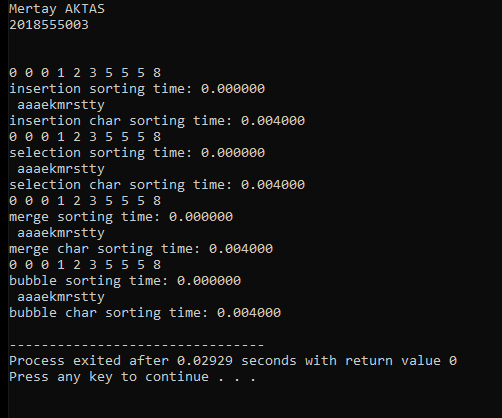
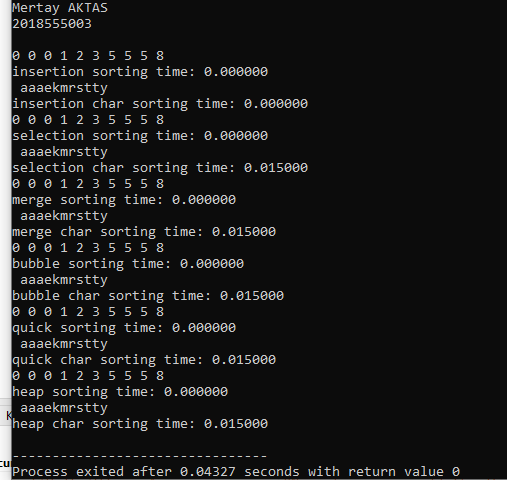
2018555003 Mertay Aktaş

Changed region(s): [[0.0, 0.0, 1.0, 1.0]]

diff --git a/Sorting/2018555003 Mertay AKTAŞ/Sorting.c.c b/Sorting/2018555003 Mertay AKTAŞ/Sorting.c.c
@@ -209,6 +209,137 @@ void bubble_sort_char(char array[], int size)
            if (array[j] > array[j+1])
                swap_char(&array[j], &array[j+1]);
 }
+// Quick Sort
+void quickSort(int *array,int first,int last){
+    int i; 
+    int j; 
+    int pivot; 
+    char temp; 
+    pivot=first; 
+   
+    
+    if(last>first){
+        pivot=first;
+        i=first;
+        j=last;
+        for (;i<j;){
+            for (;array[i]<=array[pivot] && i<last && j>i;i++){ 
+            
+            }
+            for (;array[j]>=array[pivot] && j>=first && j>=i;j--){
+                
+            }
+            if (j>i){ 
+                temp=array[i];
+                array[i]=array[j];
+                array[j]=temp;
+            }
+        }
+       
+        temp=array[j];
+        array[j]=array[pivot];
+        array[pivot]=temp;
+        quickSort(array,first,j-1);
+        quickSort(array,j+1,last);
+    }
+}
+void quickSortChar(char *array,char first,char last){
+    int i; 
+    int j; 
+    char pivot; 
+    int temp; 
+    pivot=first; 
+   
+    
+    if(last>first){
+        pivot=first;
+        i=first;
+        j=last;
+        for (; i<j; ){
+            for (;array[i]<=array[pivot] && i<last && j>i;i++) { 
+               
+            }
+            for (;array[j]>=array[pivot] && j>=first && j>=i;j--){
+            
+            }
+            if (j>i){ 
+                temp=array[i];
+                array[i]=array[j];
+                array[j]=temp;
+            }
+        }
+       
+        temp=array[j];
+        array[j]=array[pivot];
+        array[pivot]=temp;
+        quickSort(array,first,j-1);
+        quickSort(array,j+1,last);
+    }
+}
+
+//Heap Soer
+void heapSort (int *x, int size)
+{
+   int  left, right, temp;
+ 
+   if (size <= 1)
+      return;
+   left = size / 2;
+   right = size - 1;
+ 
+   while (--left >= 0)
+      heapify(x, left, right);
+ 
+   for (;;) {
+      temp = x[0];
+      x[0] = x[right];
+      x[right] = temp;
+      if (--right <= 0)
+         break;
+      heapify(x, 0, right);
+   }
+}
+
+
+void heapify(int *x, int left, int right)
+{
+   int temp, i;
+ 
+   i = left +left +1;
+    temp = x[left];
+ 
+   do {
+      if (i < right && x[i] < x[i+1])
+         i++;
+      if (temp >= x[i])
+         break;
+      x[left] = x[i];
+      left = i;
+      i = 2 * i + 1;
+   } while (i <= right);
+   x[left] = temp;
+}
+void heapSortChar (char *x, int size)
+{
+   int  left, right, temp;
+ 
+   if (size <= 1)
+      return;
+   left = size / 2;
+   right = size - 1;
+ 
+   while (--left >= 0)
+      heapify(x, left, right);
+ 
+   for (;;) {
+      temp = x[0];
+      x[0] = x[right];
+      x[right] = temp;
+      if (--right <= 0)
+         break;
+      heapify(x, 0, right);
+   }
+}
 int main() {
  
     printf("Mertay AKTAS\n2018555003\n\n\n");
@@ -266,5 +397,28 @@ int main() {
      time123= clock() - time123;
     printf("%s\n", name);
     printf("bubble char sorting time: %f\n", ((double)time123) / CLOCKS_PER_SEC);
+    
+     //Quick Sort
+	
+	quickSort(ogrenci_no,0,size-1);
+    time123 = clock() - time123;
+    printArray(ogrenci_no, size);
+    printf("quick sorting time: %f\n", ((double)time123) / CLOCKS_PER_SEC);
+    quickSortChar(name,0,char_size-99);
+    time123 = clock() - time123;
+    printf("%s\n", name);
+    printf("quick char sorting time: %f\n", ((double)time123) / CLOCKS_PER_SEC);
+	
+	//Heap Sort
+	
+	heapSort(ogrenci_no,size);
+    time123 = clock() - time123;
+    printArray(ogrenci_no, size);
+    printf("heap sorting time: %f\n", ((double)time123) / CLOCKS_PER_SEC);
+    heapSortChar(name,0);
+    time123 = clock() - time123;
+    printf("%s\n", name);
+    printf("heap char sorting time: %f\n", ((double)time123) / CLOCKS_PER_SEC);
+	
     return 0;
 }
